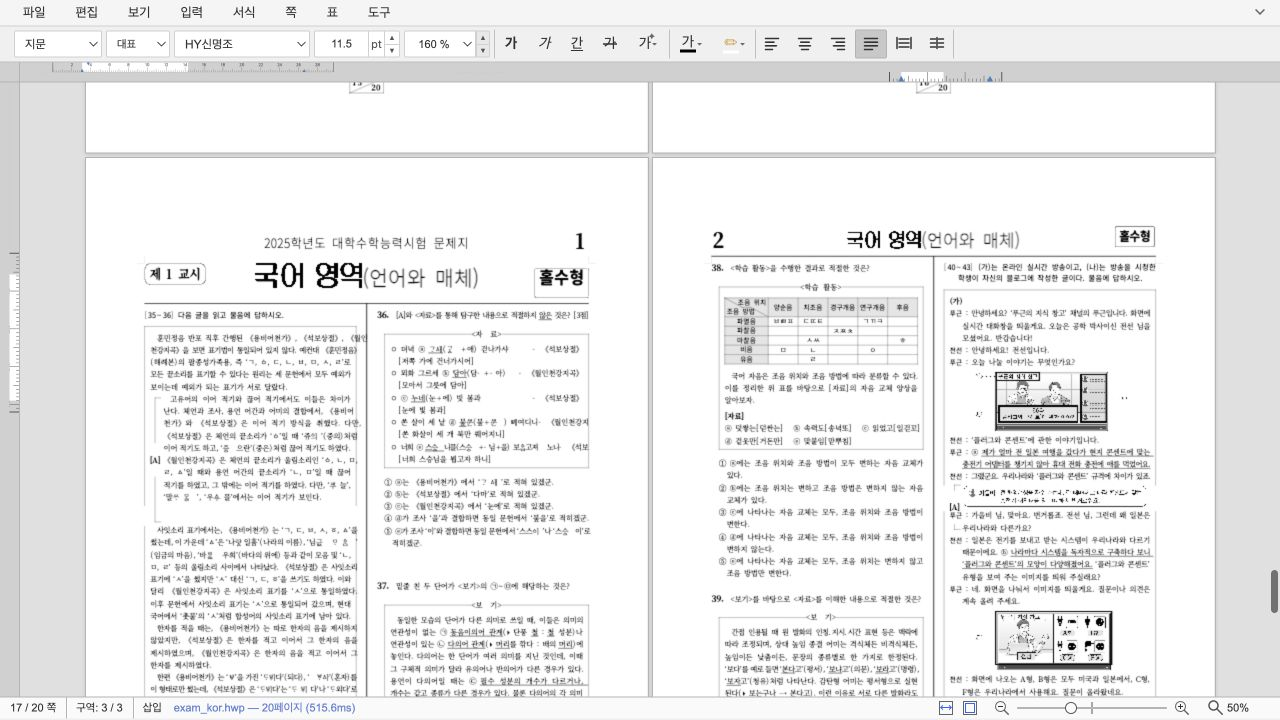
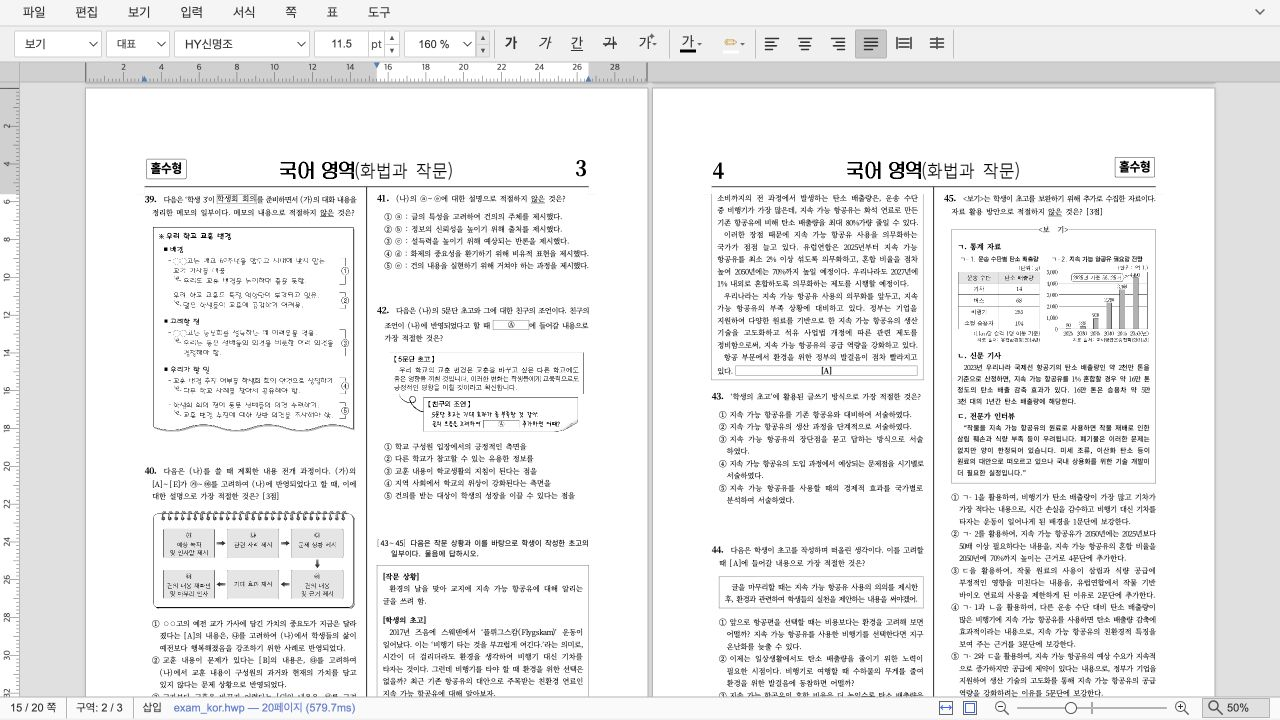
docs(test): #6149 눈금자 증빙 캡처를 정정한다

diff --git a/mydocs/report/task_m100_6149_report.md b/mydocs/report/task_m100_6149_report.md
@@ -116,11 +116,23 @@ chunk 메시지는 기존 Vite 경고이고 산출물 생성은 성공했다. `c
 
 ### 50% 순수 스크롤 — 마지막 편집 focus 눈금자 유지
 
-10%에서 왼쪽 첫 페이지를 클릭한 뒤 50%로 확대하고 350px 순수 스크롤했다. 상태바의 viewport
-페이지는 17쪽으로 바뀌지만 가로 눈금은 마지막 편집 focus인 왼쪽 열에 남는다. 오른쪽 페이지를
-클릭하기 전에는 focus 눈금자가 스크롤만으로 이동하지 않는다.
+10%에서 왼쪽 첫 페이지를 클릭한 뒤 상태바 배율 슬라이더의 사용자 키 입력으로 50%까지 확대하고,
+문서 영역에서 PageDown 순수 스크롤을 수행했다. 보이는 페이지 행이 바뀐 뒤에도 가로 눈금자는 마지막
+편집 focus인 왼쪽 열의 용지 폭과 일치한다. 오른쪽 페이지를 클릭하기 전에는 focus 눈금자가
+스크롤만으로 이동하지 않는다.
 
-![50%에서 순수 스크롤 뒤 상태바는 17쪽이고 눈금자는 마지막 편집 focus 열에 남은 rhwp-studio](../pr/assets/pr_6188_issue6149/focus_pinned_50_scroll.jpg)
+![50%에서 사용자 키 입력과 순수 스크롤 뒤 마지막 편집 focus 열의 용지 폭에 맞는 rhwp-studio 눈금자](../pr/assets/pr_6188_issue6149/focus_pinned_50_scroll.jpg)
+
+### 50% 증빙 캡처 정정
+
+PR 최초 증빙은 배율을 연속 변경한 직후 눈금자 `requestAnimationFrame`을 기다리지 않고 저장돼,
+50% 페이지(`561.5px`) 위에 이전 25% 눈금자 폭(약 `281px`)이 남은 중간 프레임을 포함했다. 이는
+브라우저가 사용자에게 표시한 안정 프레임의 제품 결함이 아니라 검증 도구의 비동기 캡처 오류였다.
+
+같은 사용자 입력 경로를 8회 반복한 결과 최종 화면과 캡처가 모두 동일했고, 매회 눈금자 시작·끝이
+50% 왼쪽 페이지의 용지 폭과 일치했다. 공개 증빙은 사용자 입력 완료 뒤의 안정 프레임으로 교체했다.
+향후 zoom·scroll 시각 증빙은 semantic 입력 완료 뒤 캡처하고, 이전 배율의 눈금자 폭이 남지 않았는지
+페이지 `getBoundingClientRect()`와 함께 확인한다.
 
 ## 작업지시자 최종 승인
 
